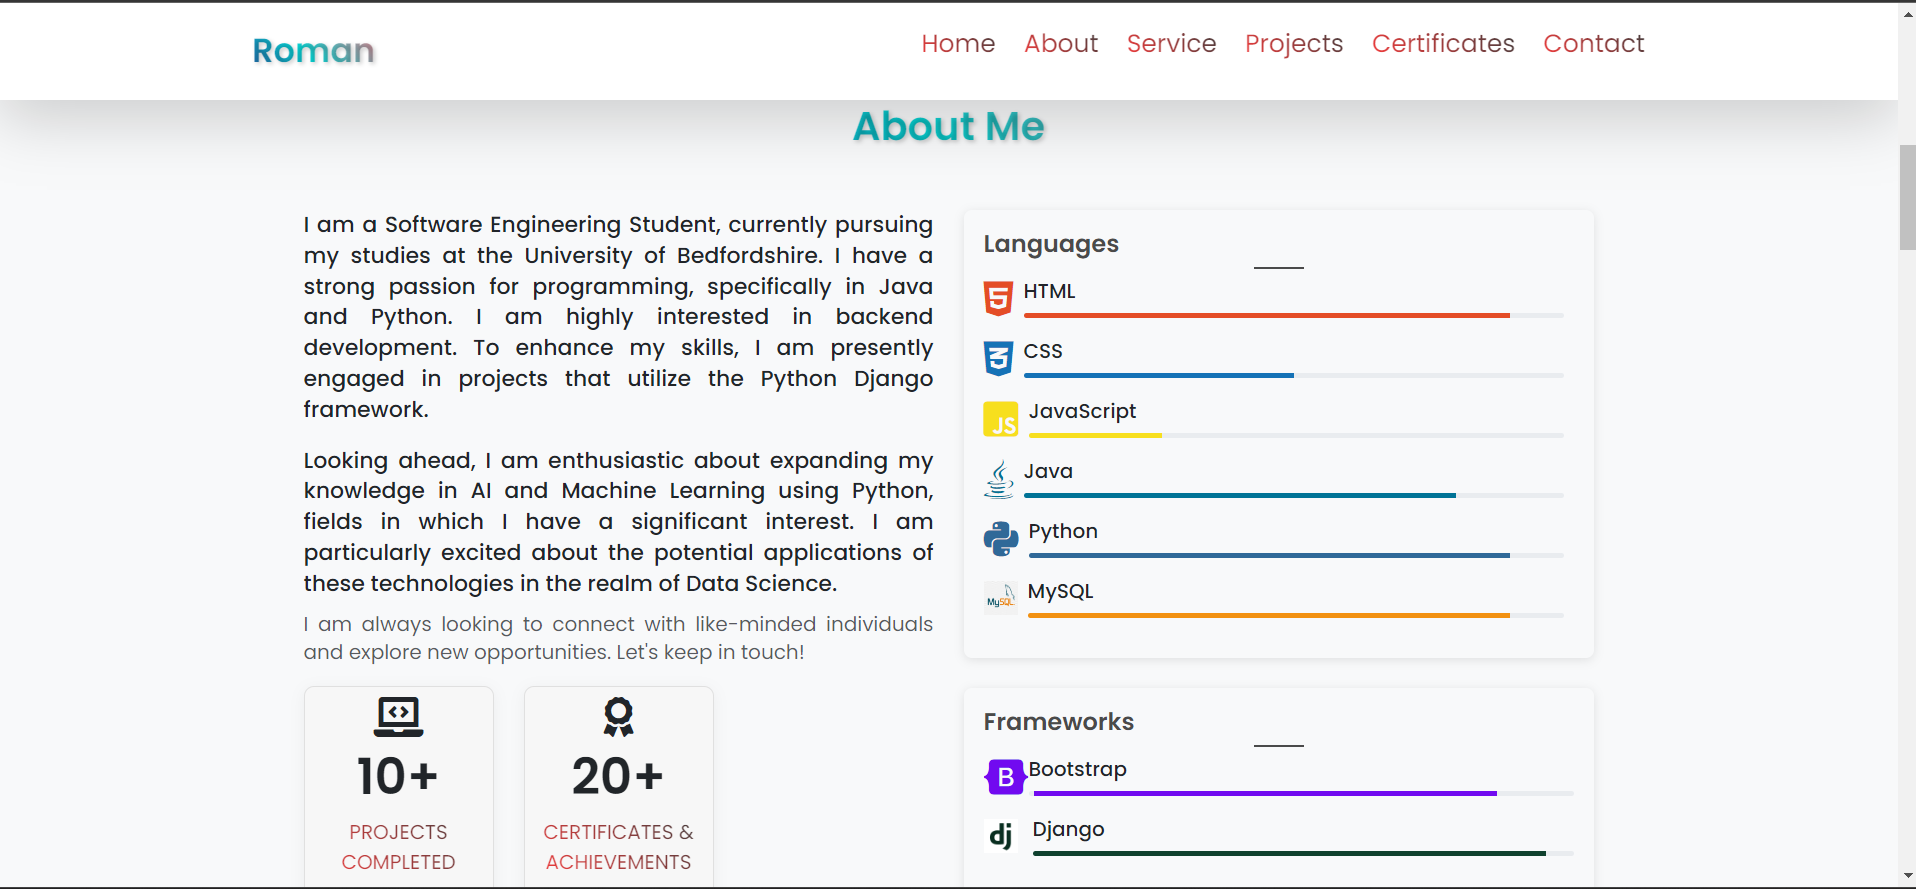
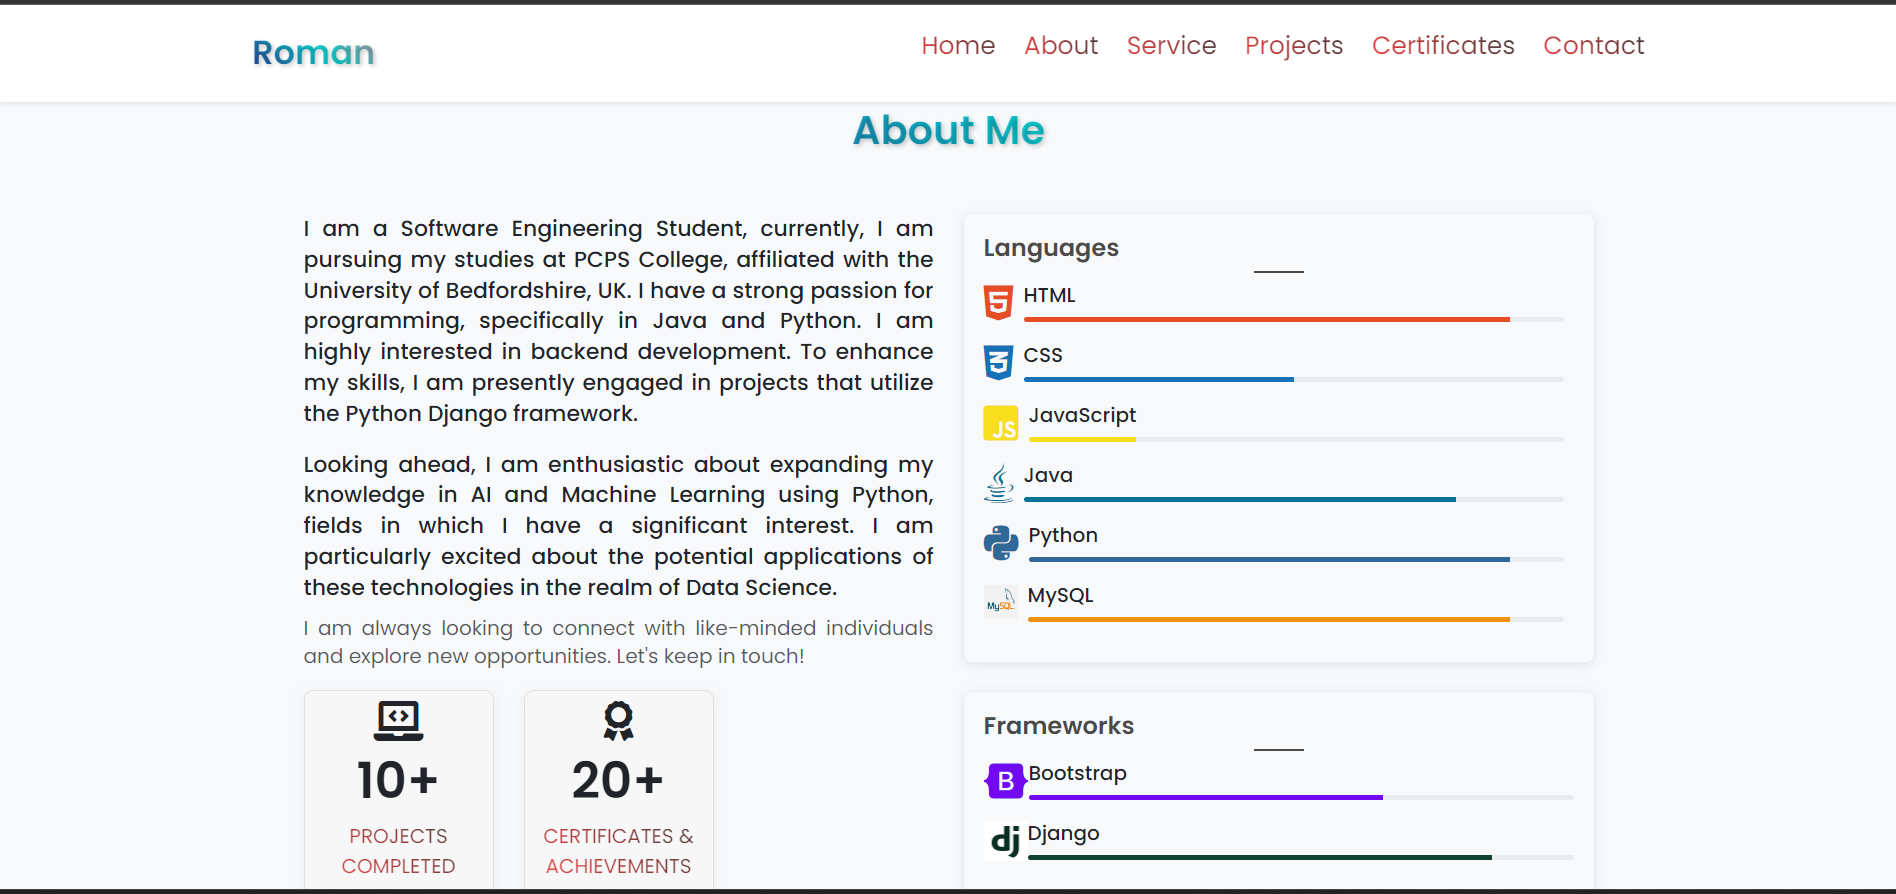
updated design

diff --git a/index.html b/index.html
@@ -4,7 +4,7 @@
 <head>
   <meta charset="utf-8" />
   <meta name="viewport" content="width=device-width, initial-scale=1" />
-  <title>Roman</title>
+  <title>Roman Humagain</title>
   <link href="https://cdn.jsdelivr.net/npm/bootstrap@5.3.1/dist/css/bootstrap.min.css" rel="stylesheet"
     integrity="sha384-4bw+/aepP/YC94hEpVNVgiZdgIC5+VKNBQNGCHeKRQN+PtmoHDEXuppvnDJzQIu9" crossorigin="anonymous" />
   <!-- <link rel="stylesheet" href="https://cdnjs.cloudflare.com/ajax/libs/font-awesome/5.15.3/css/all.min.css" /> -->
@@ -20,7 +20,7 @@
 <body class="bg-light">
 
   <!-- nav bar section starts -->
-  <nav id="desktop-nav" class="fixed-top bg-white shadow-lg">
+  <nav id="desktop-nav" class="fixed-top bg-white shadow-sm">
     <div class="logo">Roman</div>
     <div>
       <ul class="nav-links pt-1 ">
@@ -101,9 +101,8 @@
       <div class="row">
         <div class="col-md-6">
           <div class="about-text">
-            <h6 class=" about-first mb-3">I am a Software Engineering Student, currently pursuing my studies at the
-              University of
-              Bedfordshire. I have a strong passion for programming, specifically in Java and Python. I am highly
+            <h6 class=" about-first mb-3">I am a Software Engineering Student, currently, I am pursuing my studies at PCPS College, affiliated with the University of Bedfordshire, UK.
+              I have a strong passion for programming, specifically in Java and Python. I am highly
               interested in backend development. To enhance my skills, I am presently engaged in projects that utilize
               the Python Django framework. </h6>
             <h6 class="about-second ">
@@ -166,7 +165,7 @@
               <div class="flex-grow-1 mx-2">
                 <h3 class="fs-6">JavaScript</h3>
                 <div class="progress" style="height: 5px">
-                  <div class="progress-bar" style="background-color: #F7DF1E; width: 25%"></div>
+                  <div class="progress-bar" style="background-color: #F7DF1E; width: 20%"></div>
                 </div>
               </div>
             </div>
@@ -212,7 +211,7 @@
               <div class="flex-grow-1 ">
                 <h3 class="fs-6">Bootstrap</h3>
                 <div class="progress" style="height: 5px">
-                  <div class="progress-bar" style="background-color: #710af0; width: 85%; margin-left: 5px;"></div>
+                  <div class="progress-bar" style="background-color: #710af0; width: 65%;"></div>
                 </div>
               </div>
             </div>
@@ -220,11 +219,11 @@
 
             <!-- Django Skill -->
             <div class="skill-items mb-3 d-flex align-items-center">
-              <img src="Images/django.png" alt="Django" style="width: 34px; height: 34px; margin-right: 15px;">
+              <img src="Images/django.png" alt="Django" style="width: 44px; height: 40px; ">
               <div class="flex-grow-1">
                 <h3 class="fs-6">Django</h3>
                 <div class="progress" style="height: 5px">
-                  <div class="progress-bar" style="background-color: #0f412e; width: 95%"></div>
+                  <div class="progress-bar" style="background-color: #0f412e; width: 85%"></div>
                 </div>
               </div>
             </div>
@@ -242,7 +241,7 @@
                 <div class="card border-0 shadow-lg p-3 mb-5 bg-white rounded">
                     <div class="card-body">
                         <h5 class="card-title mb-4 text-center gradient-text">Lilawati National Academy</h5>
-                        <p class="card-text text-center">Achieved an A+ GPA at the end of my high school journey, setting a solid academic foundation.</p>
+                        <p class="card-text text-center">Achieved an <strong>A+</strong> GPA at the end of my high school journey, setting a solid academic foundation.</p>
                     </div>
                     <div class="card-footer bg-transparent border-0 text-center">
                         <small class="text-muted ">High School</small>
@@ -255,7 +254,7 @@
                 <div class="card border-0 shadow-lg p-3 mb-5 bg-white rounded">
                     <div class="card-body">
                         <h5 class="card-title mb-4 text-center gradient-text">Khwopa Higher Secondary School</h5>
-                        <p class="card-text text-center">Graduated with a remarkable A grade in Computer Science stream, marking a significant academic achievement.</p>
+                        <p class="card-text text-center">Graduated with a remarkable <strong>A</strong> grade in Computer Science stream, marking a significant academic achievement.</p>
                     </div>
                     <div class="card-footer bg-transparent border-0 text-center">
                         <small class="text-muted text-center">Higher Secondary</small>
@@ -300,10 +299,10 @@
             </div>
             <h3 class="fs-5 py-2 ">Frontend Development</h3>
             <p class="text-muted">
-              With expertise in <strong>HTML</strong>, <strong>CSS</strong>, and <strong>JavaScript</strong>, I craft
-              responsive and intuitive user interfaces. I've successfully delivered multiple web applications,
-              prioritizing performance and user experience.
-            </p>
+              I possess intermediate knowledge in <strong>HTML</strong>, <strong>CSS</strong>, and <strong>JavaScript</strong>. I've built responsive web designs and am passionate about enhancing user experience. My journey in web development continues to evolve.
+          </p>
+          
+          
 
           </div>
         </div>

diff --git a/css/mediaqueries.css b/css/mediaqueries.css
@@ -138,30 +138,27 @@
     border-radius: 50%;
   }
   .github-link {
-    font-size: 0.8rem; /* Decreases the font size */
-    padding: 5px 5px; /* Reduces padding to make the button smaller */
+    font-size: 0.8rem; 
+    padding: 6px 5px; 
   }
   .github-link i {
-    font-size: 0.7rem; /* Adjusts the font size of the icon for mobile */
-    margin-right: 6px; /* Adjust space between icon and text if necessary */
+    font-size: 0.7rem; 
+    margin-right: 6px; 
   }
   .about-first,
   .about-second {
-    line-height: 1.4;
-    font-size: 16px;
+    line-height: 1.38;
+    font-size: 13px;
     text-align: center;
   }
   .about-third {
-    font-size: 15px;
+    font-size: 14px;
     line-height: 1.36;
     text-align: center;
   }
-  .email,
-  .linkedin {
-    font-size: small;
-  }
+  
   .email-icon {
-    font-size: 25px;
+    font-size: 27px;
   }
   .linkedin-icon {
     font-size: x-large;

diff --git a/css/style.css b/css/style.css
@@ -349,7 +349,7 @@ a:hover {
 }
 
 .typed-color-1 {
-  color: #159997;  
+  color: #11acac;  
 }
 
 .typed-color-2 {
